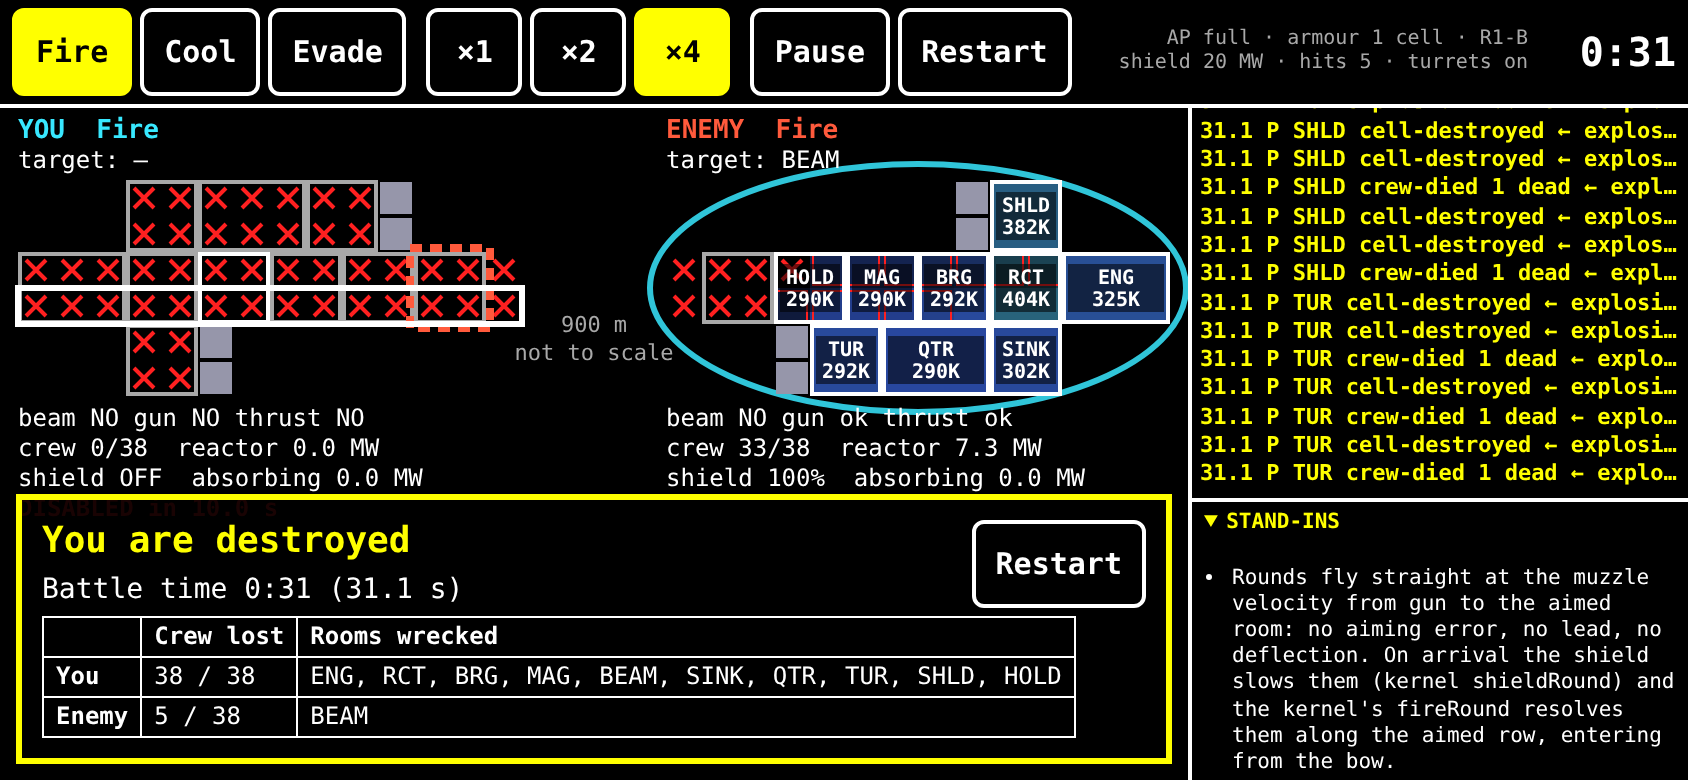
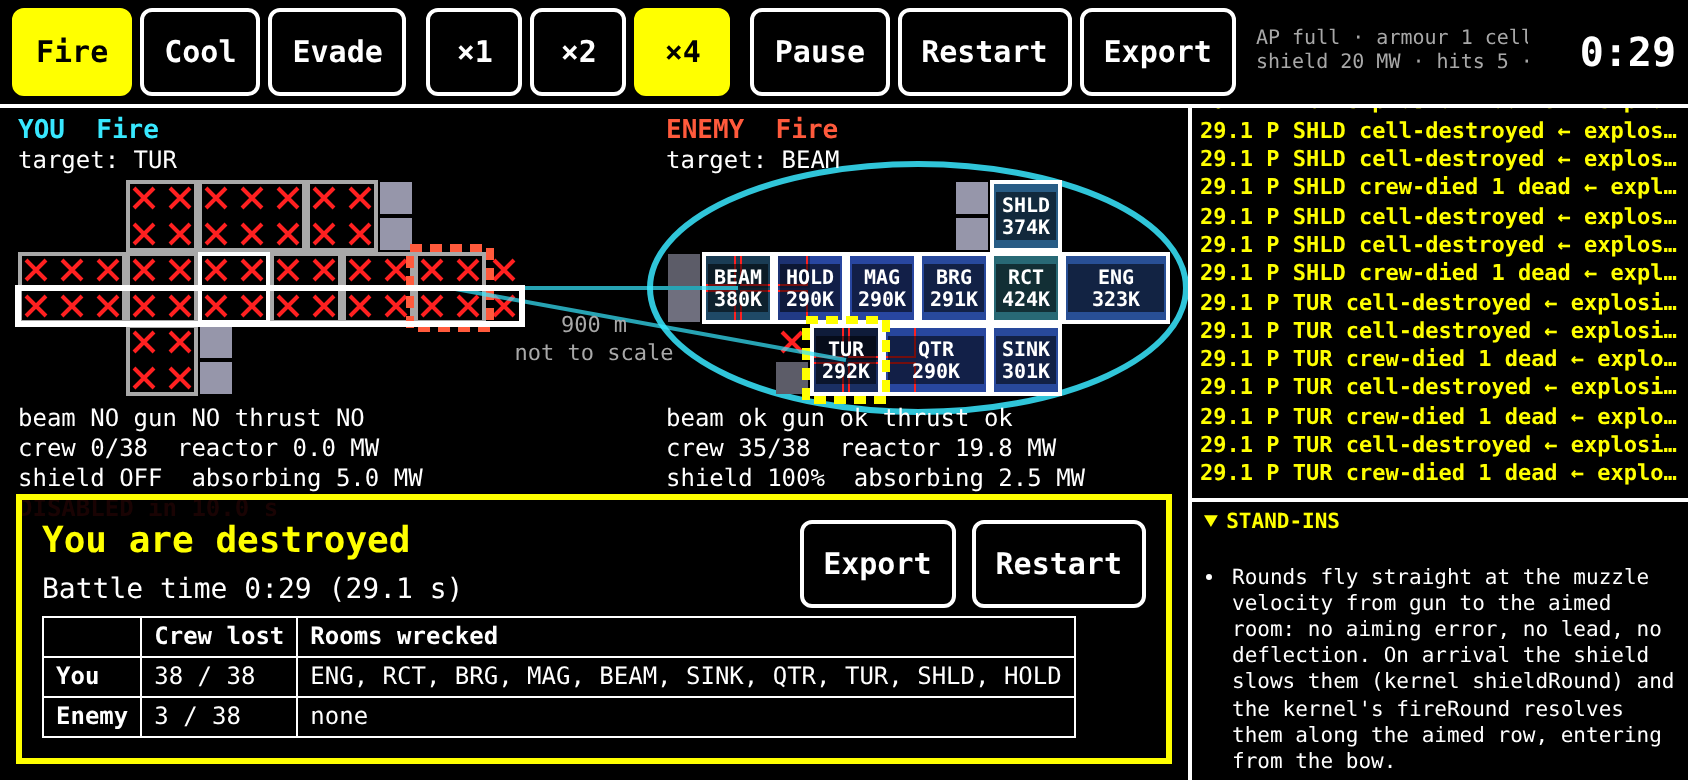
Add Export and a headless replay to the feel prototype
The owner plays the prototype on the phone and the lead designer needs to
replay that exact battle headless and read its full event log. The page
now exports one compact JSON line (version, seed, loadout, the player's
inputs by step, the end, the event hash, a per-room summary) and copies
it, with a selectable box when the clipboard refuses. proto/replay.mjs
rebuilds the battle from it, prints the log and temperature peaks, and
checks the end and hash: MATCH or MISMATCH. The smoke test exports
mid-battle and at the end and requires MATCH on both. js/, tools/ and
mission0/ are unchanged.

Claude-Session: https://claude.ai/code/session_01D3M6QwPL2KWFkX1Scsi4fd

diff --git a/proto/proto.js b/proto/proto.js
@@ -5,8 +5,9 @@
 // throwaway: it only reads the kernel's state and never counts as a Mission 0
 // result. No Math.random: the page draws no random effect.
 import { createBattle, tick, setTarget, setPreset, drainEvents, abilities } from './battle.js';
+import { createRecorder, record, exportText } from './export.js';
 import { isDestroyed, roomTemperature, survivingFraction } from '../js/rooms.js';
-import { PRESETS, PRESET_ORDER, SPEEDS, MAX_STEPS_PER_FRAME, LOG_LINES, COLOURS, LABELS, STAND_INS, SEPARATION, DISABLED_SECONDS, LOADOUT, LOADOUT_ORDER, defaultLoadout } from './config.js';
+import { PRESETS, PRESET_ORDER, SPEEDS, MAX_STEPS_PER_FRAME, LOG_LINES, COLOURS, LABELS, STAND_INS, SEPARATION, DISABLED_SECONDS, LOADOUT, LOADOUT_ORDER, defaultLoadout, SEED } from './config.js';
 
 const $ = (id) => document.getElementById(id);
 const canvas = $('view'), ctx = canvas.getContext('2d');
@@ -15,6 +16,8 @@ const GAP = 4; // cells of screen between the ships (900 m is not drawn to scale
 // GW x GH: the drawn grid of a ship (its layout plus the armour belt), set when a battle starts.
 let battle = null, GW = 0, GH = 0, speed = 1, paused = false, choosing = true, acc = 0, last = null, geo = null;
 let loadout = defaultLoadout();
+// rec: the battle's recorder (proto/export.js), fed every tick's events; logged: events waiting for the log.
+let rec = null, logged = [], lastExport = null, pausedBeforeExport = false;
 
 // ---------- controls ----------
 function buttons() {
@@ -32,6 +35,9 @@ function buttons() {
   }));
   $('pause').addEventListener('click', () => { paused = !paused; refreshButtons(); });
   $('restart').addEventListener('click', chooseLoadout);
+  $('export').addEventListener('click', openExport);
+  $('export-close').addEventListener('click', closeExport);
+  $('export-copy').addEventListener('click', () => copyExport());
   $('loadout-groups').replaceChildren(...LOADOUT_ORDER.map((k) => {
     const g = document.createElement('div'), h = document.createElement('div'), row = document.createElement('div');
     g.className = 'lo-group'; h.className = 'lo-label'; h.textContent = LOADOUT[k].label; row.className = 'group'; row.setAttribute('role', 'group'); row.setAttribute('aria-label', LOADOUT[k].label);
@@ -66,6 +72,7 @@ function loadoutTag(lo) {
 }
 /** The loadout panel: shown before the first battle and from Restart; the battle behind it stops. */
 function chooseLoadout() {
+  closeExport();
   choosing = true;
   refreshLoadout();
   $('end').hidden = true;
@@ -73,7 +80,8 @@ function chooseLoadout() {
 }
 
 function start() {
-  battle = createBattle({ loadout });
+  battle = createBattle({ seed: SEED, loadout });
+  rec = createRecorder(battle); logged = [];
   GW = battle.width; GH = battle.player.size[1];
   choosing = false; acc = 0; last = null; paused = false;
   $('loadout').hidden = true;
@@ -242,7 +250,8 @@ function draw() {
 // ---------- log ----------
 const BIG = new Set(['explosion', 'scram', 'shutdown', 'control-lost', 'crew-died', 'cell-destroyed', 'meltdown', 'breach', 'cook-off', 'shield-down']);
 function logEvents() {
-  const evs = drainEvents(battle).filter((e) => e.type !== 'shot'); // shots are drawn as rounds
+  const evs = logged.filter((e) => e.type !== 'shot'); // shots are drawn as rounds
+  logged = [];
   if (!evs.length) return;
   const log = $('log'), stick = log.scrollTop + log.clientHeight >= log.scrollHeight - 4;
   for (const e of evs.slice(-LOG_LINES)) {
@@ -268,7 +277,9 @@ function showEnd() {
     <table><tr><th></th><th>Crew lost</th><th>Rooms wrecked</th></tr>${row('player')}${row('enemy')}</table>`;
   const b = document.createElement('button');
   b.type = 'button'; b.textContent = 'Restart'; b.addEventListener('click', chooseLoadout);
-  el.prepend(b);
+  const x = document.createElement('button');
+  x.type = 'button'; x.id = 'end-export'; x.textContent = 'Export'; x.addEventListener('click', openExport);
+  el.prepend(b, x);
   el.hidden = false;
 }
 
@@ -293,7 +304,12 @@ function frame(now) {
     acc += real * speed;
     let n = Math.min(MAX_STEPS_PER_FRAME * speed, Math.floor(acc / battle.dt + 1e-9));
     acc -= n * battle.dt;
-    while (n-- > 0 && !battle.ended) tick(battle);
+    while (n-- > 0 && !battle.ended) {
+      tick(battle);
+      const evs = drainEvents(battle); // after every tick, as proto/replay.mjs does, so the hashes agree
+      record(rec, evs);
+      for (const e of evs) logged.push(e);
+    }
     if (acc > 4 * battle.dt * speed) acc = 0; // a slow phone drops time rather than spiral
     logEvents();
     if (battle.ended) showEnd();
@@ -302,10 +318,41 @@ function frame(now) {
   requestAnimationFrame(frame);
 }
 
+// ---------- export (proto/export.js): one JSON text for proto/replay.mjs ----------
+/** Build the export of the battle as it stands, pause it, show it and copy it. */
+function openExport() {
+  if (!battle || choosing) return;
+  if ($('export-panel').hidden) pausedBeforeExport = paused;
+  paused = true; refreshButtons();
+  lastExport = exportText(battle, rec);
+  const box = $('export-text');
+  box.value = lastExport;
+  $('export-status').textContent = `${(lastExport.length / 1024).toFixed(1)} kB, step ${battle.steps}`;
+  $('export-panel').hidden = false;
+  copyExport();
+}
+function closeExport() {
+  if ($('export-panel').hidden) return;
+  $('export-panel').hidden = true;
+  paused = pausedBeforeExport; refreshButtons();
+}
+/** Copy to the clipboard; a phone's clipboard can refuse, so the text stays in a selectable box. */
+async function copyExport() {
+  const box = $('export-text'), status = $('export-status'), size = `${(lastExport.length / 1024).toFixed(1)} kB`;
+  let ok = false;
+  try { if (navigator.clipboard && window.isSecureContext) { await navigator.clipboard.writeText(lastExport); ok = true; } } catch { ok = false; }
+  if (!ok) {
+    box.focus(); box.select(); box.setSelectionRange(0, lastExport.length);
+    try { ok = document.execCommand('copy'); } catch { ok = false; }
+  }
+  status.textContent = ok ? `copied (${size})` : `not copied: select the text below and copy it (${size})`;
+}
+
 // For the smoke test: read-only access and the screen rectangle of a room.
 window.__proto = {
   get battle() { return battle; },
   get choosing() { return choosing; },
+  get lastExport() { return lastExport; },
   roomCentre(side, id) {
     const r = canvas.getBoundingClientRect(), [x, y, w, h] = roomRect(battle[side], id);
     return [r.left + x + w / 2, r.top + y + h / 2];

diff --git a/proto/export.js b/proto/export.js
@@ -1,0 +1,97 @@
+// proto/export.js — the feel prototype's export (DESIGN.md 13h, #217, #224):
+// one compact JSON text of a battle (version, seed, loadout, the player's
+// inputs by step, the end, the event hash and a short per-room summary), so
+// that proto/replay.mjs can rebuild the battle headless from seed, loadout
+// and inputs and check it ends the same. No DOM: the page (proto/proto.js)
+// and Node (proto/replay.mjs) both use it. The full event list is not
+// exported; the replay prints it.
+import { isDestroyed } from '../js/rooms.js';
+import { summary } from './battle.js';
+import { PROTO_VERSION, PRESETS } from './config.js';
+
+/**
+ * A recorder of one battle: a running hash of every event (cyrb53-style, two 32-bit lanes, over each event's JSON
+ * and a newline, in the order the battle emits them) and per room the first time it was hot, overheated and wrecked.
+ * The same events in the same order give the same hash in the browser and in Node.
+ */
+export function createRecorder(battle) {
+  return { battle, h1: 0xdeadbeef, h2: 0x41c6ce57, count: 0, rooms: { player: {}, enemy: {} } };
+}
+
+/** Fold a batch of events (drainEvents, after each tick) into the recorder. */
+export function record(rec, events) {
+  for (const e of events) {
+    const s = JSON.stringify(e);
+    let { h1, h2 } = rec;
+    for (let i = 0; i < s.length; i++) {
+      const c = s.charCodeAt(i);
+      h1 = Math.imul(h1 ^ c, 2654435761);
+      h2 = Math.imul(h2 ^ c, 1597334677);
+    }
+    rec.h1 = Math.imul(h1 ^ 10, 2654435761); rec.h2 = Math.imul(h2 ^ 10, 1597334677);
+    rec.count++;
+    if (e.room === 'armour' || !(e.side in rec.rooms)) continue;
+    const r = rec.rooms[e.side][e.room] || (rec.rooms[e.side][e.room] = { hot: null, overheated: null, wrecked: null });
+    if (e.type === 'hot' && r.hot === null) r.hot = e.t;
+    if (e.type === 'overheated' && r.overheated === null) r.overheated = e.t;
+    if ((e.type === 'cell-destroyed' || e.type === 'explosion') && r.wrecked === null && isDestroyed(rec.battle[e.side].room(e.room))) r.wrecked = e.t;
+  }
+}
+
+/** The recorder's hash: 16 hex digits. */
+export function eventHash(rec) {
+  let h1 = rec.h1, h2 = rec.h2;
+  h1 = Math.imul(h1 ^ (h1 >>> 16), 2246822507) ^ Math.imul(h2 ^ (h2 >>> 13), 3266489909);
+  h2 = Math.imul(h2 ^ (h2 >>> 16), 2246822507) ^ Math.imul(h1 ^ (h1 >>> 13), 3266489909);
+  return (h2 >>> 0).toString(16).padStart(8, '0') + (h1 >>> 0).toString(16).padStart(8, '0');
+}
+
+/** Where the battle stands: its end if it ended, else the step it was exported at; crew lost and rooms wrecked per side. */
+export function endOf(battle) {
+  const e = battle.ended, side = (s) => { const x = summary(s); return { crewLost: x.crewLost, crewTotal: x.crewTotal, wrecked: x.wrecked }; };
+  return {
+    ended: !!e, steps: battle.steps, t: battle.t,
+    losers: e ? e.losers : null, reason: e ? e.reason : null,
+    sides: { player: side(battle.player), enemy: side(battle.enemy) },
+  };
+}
+
+const round2 = (t) => (t === null ? null : Math.round(t * 100) / 100);
+
+// Inputs are one string of space-separated tokens, in the order made: the step, then P and the preset's initial
+// (f, c, e) or T and the room id (T- clears the target); an input of the enemy side starts with E. "5400Pc 5460TbeamBay"
+// is Cool at step 5400, then target the beam bay at step 5460.
+const INITIAL = Object.fromEntries(Object.keys(PRESETS).map((k) => [k, k[0]]));
+const PRESET_OF = Object.fromEntries(Object.keys(PRESETS).map((k) => [k[0], k]));
+if (Object.keys(PRESET_OF).length !== Object.keys(PRESETS).length) throw new Error('preset initials are not unique');
+const token = (i) => `${i.side === 'player' ? '' : 'E'}${i.step}${i.kind === 'preset' ? `P${INITIAL[i.value]}` : `T${i.value === null ? '-' : i.value}`}`;
+/** The inputs of an export, back as { step, kind, value, side }. */
+export function decodeInputs(text) {
+  return text.split(' ').filter(Boolean).map((tok) => {
+    const m = /^(E?)(\d+)([PT])(.+)$/.exec(tok);
+    if (!m) throw new Error(`bad input token ${tok}`);
+    const side = m[1] ? 'enemy' : 'player', step = Number(m[2]);
+    if (m[3] === 'P') { if (!PRESET_OF[m[4]]) throw new Error(`bad preset in ${tok}`); return { step, kind: 'preset', value: PRESET_OF[m[4]], side }; }
+    return { step, kind: 'target', value: m[4] === '-' ? null : m[4], side };
+  });
+}
+
+/**
+ * The export of a battle. inputs: see decodeInputs; summary: per side, per room that got hot or worse, [first hot,
+ * first overheated, wrecked] (s, to 0.01 s; null: never).
+ */
+export function buildExport(battle, rec) {
+  const summaryOut = {};
+  for (const side of ['player', 'enemy']) {
+    summaryOut[side] = {};
+    for (const [id, r] of Object.entries(rec.rooms[side])) if (r.hot !== null || r.overheated !== null || r.wrecked !== null) summaryOut[side][id] = [round2(r.hot), round2(r.overheated), round2(r.wrecked)];
+  }
+  return {
+    v: PROTO_VERSION, seed: battle.seed, dt: battle.dt, loadout: battle.loadout,
+    inputs: battle.inputs.map(token).join(' '),
+    end: endOf(battle), events: rec.count, hash: eventHash(rec), summary: summaryOut,
+  };
+}
+
+/** The export as one line of JSON. */
+export const exportText = (battle, rec) => JSON.stringify(buildExport(battle, rec));

diff --git a/proto/index.html b/proto/index.html
@@ -17,6 +17,7 @@
     <div class="group">
       <button id="pause" type="button">Pause</button>
       <button id="restart" type="button">Restart</button>
+      <button id="export" type="button">Export</button>
     </div>
     <div id="lo-tag" aria-label="Loadout"></div>
     <div id="clock">0:00</div>
@@ -46,6 +47,16 @@
     <div id="loadout-groups"></div>
     <div id="loadout-note">Shield budget and hits to wreck are run-time overrides of js/data.js within their approved ranges. Bow armour is a STAND-IN (see the list). Turrets off: the beam-only probe.</div>
   </div>
+</div>
+<div id="export-panel" hidden>
+  <div id="export-head">
+    <h2>Export</h2>
+    <span id="export-status"></span>
+    <button id="export-copy" type="button">Copy</button>
+    <button id="export-close" type="button">Close</button>
+  </div>
+  <div id="export-note">Send this text to the lead designer: proto/replay.mjs replays the battle from it. The battle is paused.</div>
+  <textarea id="export-text" readonly spellcheck="false" aria-label="Export text"></textarea>
 </div>
 <script type="module" src="proto.js"></script>
 </body>

diff --git a/proto/proto.css b/proto/proto.css
@@ -42,3 +42,10 @@ button:active { background: #fff; color: #000; }
 .lo-label { font-size: 12px; color: #a8a8a8; margin: 2px 0 1px; }
 .lo-group .group { flex-wrap: wrap; }
 #loadout-note { margin-top: 6px; font-size: 11px; color: #a8a8a8; }
+#export-panel { position: fixed; inset: 0; z-index: 20; background: rgba(0, 0, 0, 0.96); display: flex; flex-direction: column; padding: 6px 8px; gap: 4px; }
+#export-head { display: flex; align-items: center; gap: 8px; }
+#export-head h2 { margin: 0; font-size: 18px; color: #ffff00; }
+#export-status { margin-right: auto; font-weight: bold; color: #ffff00; }
+#export-note { font-size: 11px; color: #a8a8a8; }
+#export-text { flex: 1; min-height: 0; width: 100%; background: #000; color: #fff; border: 2px solid #fff; font: 11px/1.3 ui-monospace, Menlo, Consolas, monospace; -webkit-user-select: text; user-select: text; resize: none; }
+#export-panel[hidden] { display: none; }

diff --git a/proto/battle.js b/proto/battle.js
@@ -108,7 +108,7 @@ export function createBattle({ seed = SEED, overrides = {}, scripted = { player:
   const { A } = roundGeometry(mass, FIXED.steelDensity.value, FIXED.roundLengthToDiameter.value);
   const aperture = edge / 2;
   const battle = {
-    params, loadout: lo, player, enemy, ships: [player, enemy], scripted, beamOnly: beamOnly || lo.turrets === false, dt: player.world.dt, t: 0, steps: 0,
+    seed, params, loadout: lo, player, enemy, ships: [player, enemy], scripted, beamOnly: beamOnly || lo.turrets === false, dt: player.world.dt, t: 0, steps: 0,
     round: { mass, velocity, area: A },
     // STAND-IN beam geometry: the fraction of the beam's power that lands on one cell at the stations' distance (L0's Gaussian beam).
     beamFraction: beamDeliveredFraction(SEPARATION, scaled(params.beam.focusRange, edge), aperture, FIXED.beamWaistPerHalfCell.value * aperture),

diff --git a/proto/config.js b/proto/config.js
@@ -86,6 +86,11 @@ export const TIER = 'T1';
 // which row of the aimed room a round flies along).
 export const SEED = 20261021;
 
+// Prototype setting: the version written in an export (proto/export.js). There is no build step to stamp a git hash,
+// so it is a constant: change it whenever proto/ or js/ changes what a battle does, so proto/replay.mjs can tell an
+// export of another version.
+export const PROTO_VERSION = 'feel-2';
+
 // Prototype setting: the three presets (13h.2). Fire: beam and turret on
 // the target, shield on, engine half. Cool: weapons off, shield off, engine
 // off. Evade: engine full, RCS turning, weapons hold; 13h.2 does not say

diff --git a/proto/README.md b/proto/README.md
@@ -64,6 +64,34 @@ physics):
   thrust for 10 s, #82) or destroyed (its reactor or magazine explodes), and
   shows the time, crew lost and rooms wrecked.
 
+## Export and replay
+
+- **Export** (top bar during a battle, and on the end panel) pauses the
+  battle and builds one line of JSON: the version (`PROTO_VERSION` in
+  `config.js`; there is no build step to stamp a git hash), the seed, the
+  loadout, every input of the player with its step number, where the battle
+  stands (ended or not, step, time, losers and reason, crew lost and rooms
+  wrecked per side), the number of events and their hash, and a per-room
+  summary ([first hot, first overheated, wrecked] in s, rooms that got hot
+  or worse). It copies the text to the clipboard and says "copied"; if the
+  phone refuses, it says so and the text stays selected in a box to copy by
+  hand. **Close** resumes. Inputs are tokens such as `5400Pc 5460TbeamBay`
+  (Cool at step 5400, then target the beam bay); about 10 kB for a
+  15-minute battle with one input every second.
+- `node proto/replay.mjs <file.json> [--every S] [--quiet]` rebuilds the
+  battle headless from the seed, loadout and inputs, runs it to the
+  exported step, prints the full event log (time, side, room, type, cause,
+  crew and the event's other fields; the player's inputs inline) and each
+  room's temperature peak, then compares the end and the event hash with
+  the export: **MATCH** (exit 0) or **MISMATCH** (exit 1). `--every 1`
+  also prints each room's temperature and integrity and each shield's state
+  once per simulated second. Text around the JSON (a pasted message) is
+  ignored.
+- The hash folds every event's JSON, after every tick, in the order the
+  battle emits them; it is not `measure.mjs`'s SHA-256. Bump
+  `PROTO_VERSION` whenever `proto/` or `js/` changes what a battle does:
+  replay warns when the export's version differs from the checkout's.
+
 ## Read the view
 
 - Each room's colour is its temperature against its own thresholds: dark
@@ -127,12 +155,16 @@ Each is marked `STAND-IN` in the code.
 - `NODE_PATH=/opt/node-tools/node_modules node proto/smoke.mjs`: Playwright
   at 844 × 390 with touch; chooses a non-default loadout (AP full, armour 1,
   R1-B, shield 20 MW, hits 5) and starts, taps a target, cycles the presets,
-  runs ×4 to the end or 6 simulated minutes, checks Restart brings the
-  panel back; fails on any console error or a visible button under 44 px;
-  writes `proto/screens/loadout.png`, `start.png` and `end.png`.
+  runs ×4 to the end or 6 simulated minutes (on the way: target the turret
+  at 8 s, Cool at 12 s, Fire at 16 s, Export from the top bar at 20 s),
+  exports again at the end, runs `replay.mjs` on both exports (each must
+  print MATCH), checks Restart brings the panel back; fails on any console
+  error, a visible button under 44 px or a MISMATCH; writes
+  `proto/screens/loadout.png`, `start.png`, `export.png` and `end.png`.
 
 ## Files
 
 `index.html`, `proto.css`, `proto.js` (the page), `battle.js` (the battle,
-no DOM), `config.js` (every prototype setting), `measure.mjs`, `smoke.mjs`,
+no DOM), `export.js` (the export and its event hash, no DOM), `config.js`
+(every prototype setting), `measure.mjs`, `replay.mjs`, `smoke.mjs`,
 `screens/`.

diff --git a/CHANGELOG.md b/CHANGELOG.md
@@ -1,5 +1,22 @@
 # Changelog
 
+## 0.6.4 — 2026-10-21 — Export and replay for the feel prototype (#217, #224), throwaway
+
+- `proto/`: an **Export** button in the top bar and on the end panel. It
+  pauses the battle and copies one line of JSON (version, seed, loadout,
+  the player's inputs by step, where the battle stands, the event count and
+  hash, a per-room summary of first hot, overheated and wrecked), with a
+  selectable text box when the phone's clipboard refuses. About 10 kB for a
+  15-minute battle with one input a second.
+- `proto/replay.mjs` (new): rebuilds the battle headless from an export,
+  prints the full event log and each room's temperature peak (`--every S`:
+  temperature, integrity and shields every S seconds), and checks the end
+  and the event hash: MATCH or MISMATCH. `proto/export.js` (new) holds the
+  export and its hash for both.
+- `proto/smoke.mjs` changes target, switches presets, exports mid-battle
+  and at the end, and requires MATCH from `replay.mjs` on both. No change
+  to `js/`, `tools/`, `mission0/` or `data.js`.
+
 ## 0.6.3 — 2026-10-21 — The feel prototype's loadout panel (#217, #223), throwaway
 
 - `proto/`: a loadout panel before each battle and from Restart, applied to
